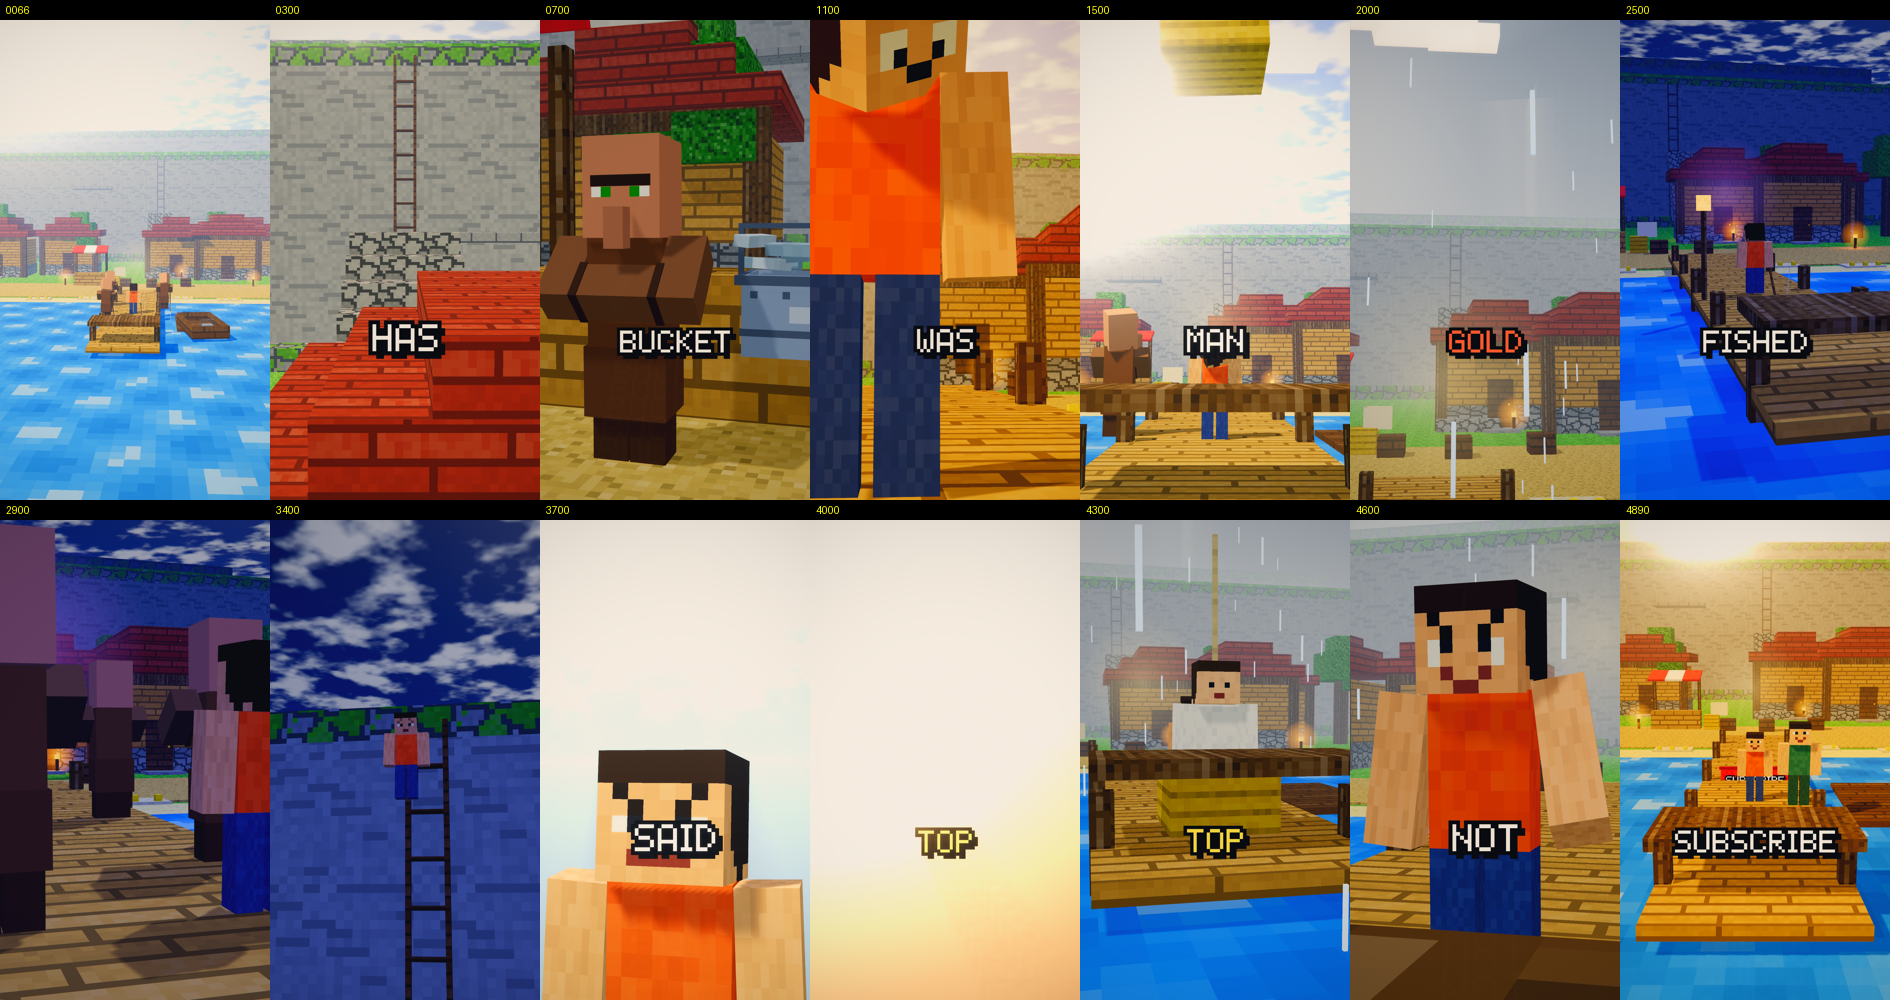
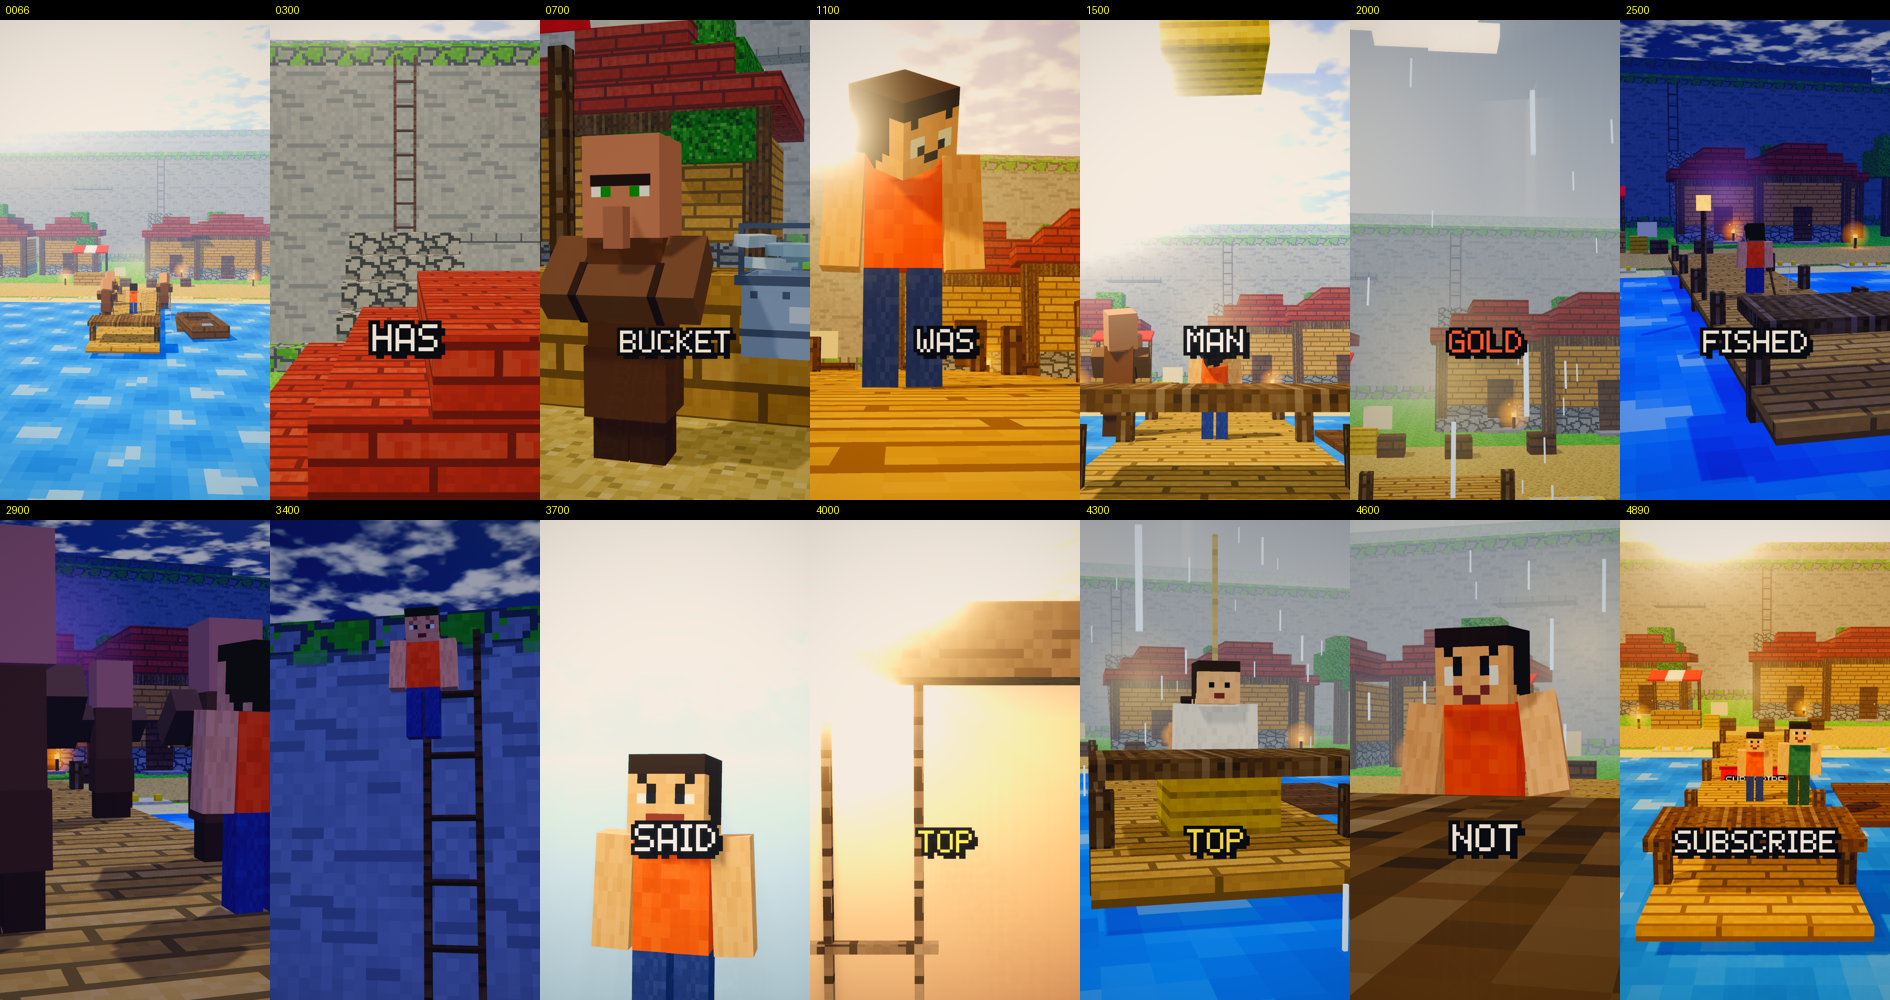
Crane rides the ladder, the vote gets a lantern, three stages move

Changed region(s): [[0.1249, 0.496, 0.5931, 1.0], [0.4058, 0.0, 0.5931, 0.496], [0.6868, 0.527, 0.8741, 1.0]]

diff --git a/src/videos/in-this-town-we-live-at-the-bottom/scene8.tsx b/src/videos/in-this-town-we-live-at-the-bottom/scene8.tsx
@@ -1,5 +1,5 @@
 import { cam, storyScene } from "../../engine";
-import { EAST, Healer, Hero, Mum, NORTH, WEST, room, timing } from "./kit";
+import { EAST, Healer, Hero, Mum, NORTH, WEST, room, ramp, timing } from "./kit";
 
 /**
  * 08 — The decision. Three short shots, and the film's whole engine starts here.
@@ -16,10 +16,10 @@ export const scene8 = storyScene(timing, {
       zone: "room",
       look: "warm-room",
       note: "He asks. She has been asked this before and her hands are already still: the answer is going to be a gesture, not a sentence.",
-      stage: () => (
+      stage: (t) => (
         <>
           <Hero position={room(-0.3, 0, -1.5)} rotationY={EAST} animation="talk" face="uneasy" headPitch={-0.1} />
-          <Healer position={room(0.9, 0, -1.3)} rotationY={WEST} hmm={0.3} lookAt={room(-0.3, 1.4, -1.5)} />
+          <Healer position={room(0.9, 0, -1.3)} rotationY={WEST} hmm={0.3 + 0.5 * ramp(t, 0.1, 0.9)} lookAt={room(-0.3, 1.4, -1.5)} />
         </>
       ),
     },

diff --git a/src/videos/in-this-town-we-live-at-the-bottom/scene16.tsx b/src/videos/in-this-town-we-live-at-the-bottom/scene16.tsx
@@ -62,10 +62,10 @@ export const scene16 = storyScene(timing, {
       zone: "bottom",
       look: "overworld-rain",
       note: "The basket, at the end of the jetty, and him standing in it in the rain in his clean coat. He has come down twice in one year, which he has never done.",
-      stage: () => (
+      stage: (t) => (
         <>
-          <Basket position={[0, 0.5, 15]} rope={2.4} />
-          <Keeper position={[0, 0.5, 15]} rotationY={SOUTH} animation="idle" face="blank" />
+          <Basket position={[0, 0.5 + 0.05 * Math.sin(t * 2.2), 15]} rope={2.4 + 0.08 * Math.sin(t * 2.2 + 1)} />
+          <Keeper position={[0, 0.5 + 0.05 * Math.sin(t * 2.2), 15]} rotationY={SOUTH} animation="idle" face="blank" />
           <Hero position={[0.2, 0.5, 12.6]} rotationY={NORTH} animation="idle" face="surprised" headPitch={-0.2} />
         </>
       ),

diff --git a/src/videos/in-this-town-we-live-at-the-bottom/scene14.tsx b/src/videos/in-this-town-we-live-at-the-bottom/scene14.tsx
@@ -36,9 +36,9 @@ export const scene14 = storyScene(timing, {
       zone: "top",
       look: "overworld-day",
       note: "The keeper counts the money with two fingers, the way you count something you already know the total of. The jar sits on the sill between them.",
-      stage: () => (
+      stage: (t) => (
         <>
-          <Keeper position={top(0.5, 0, -300.6)} rotationY={SOUTH} animation="reach" face="blank" headPitch={0.3} />
+          <Keeper position={top(0.5, 0, -300.6)} rotationY={SOUTH} animation="reach" face="blank" headPitch={0.3 + 0.12 * Math.sin(t * 3.4)} />
           <Hero position={top(-0.6, 0, -299.2)} rotationY={0} animation="idle" face="worried" />
           <Jar position={top(0, 1.05, -299.6)} fill={1} />
         </>

diff --git a/src/videos/in-this-town-we-live-at-the-bottom/scene11.tsx b/src/videos/in-this-town-we-live-at-the-bottom/scene11.tsx
@@ -1,4 +1,4 @@
-import { cam, storyScene } from "../../engine";
+import { cam, storyScene, LightPool } from "../../engine";
 import { Jar, JETTY_CROWD, Hero, NORTH, SOUTH, Villager, ease, ramp, timing } from "./kit";
 
 /**
@@ -42,6 +42,7 @@ export const scene11 = storyScene(timing, {
             <Villager key={i} position={[x, 0.5, z]} rotationY={NORTH} strain={ease(ramp(t, 0.2 + i * 0.1, 1.0 + i * 0.1)) * 0.5} kid={i % 2 === 0} />
           ))}
           <Hero position={[0.6, 0.5, 11.6]} rotationY={NORTH} animation="idle" face="surprised" headPitch={-0.1} />
+          <LightPool position={[0, 0.52, 10.6]} width={8} depth={7} color="#ffb46b" opacity={0.26} />
         </>
       ),
     },

diff --git a/src/videos/in-this-town-we-live-at-the-bottom/scene2.tsx b/src/videos/in-this-town-we-live-at-the-bottom/scene2.tsx
@@ -29,10 +29,10 @@ export const scene2 = storyScene(timing, {
     },
     {
       cue: "2.steps",
-      from: [1.2, 1.4, -4.6],
-      to: [1.2, 9.0, -7.6],
-      target: [1.2, 1.2, -13.5],
-      targetTo: [1.2, 8.4, -13.5],
+      from: [1.2, 1.4, -24.6],
+      to: [1.2, 8.6, -27.2],
+      target: [1.2, 1.0, -31.4],
+      targetTo: [1.2, 8.0, -31.4],
       fov: 44,
       ease: "linear" as const,
       zone: "bottom",
